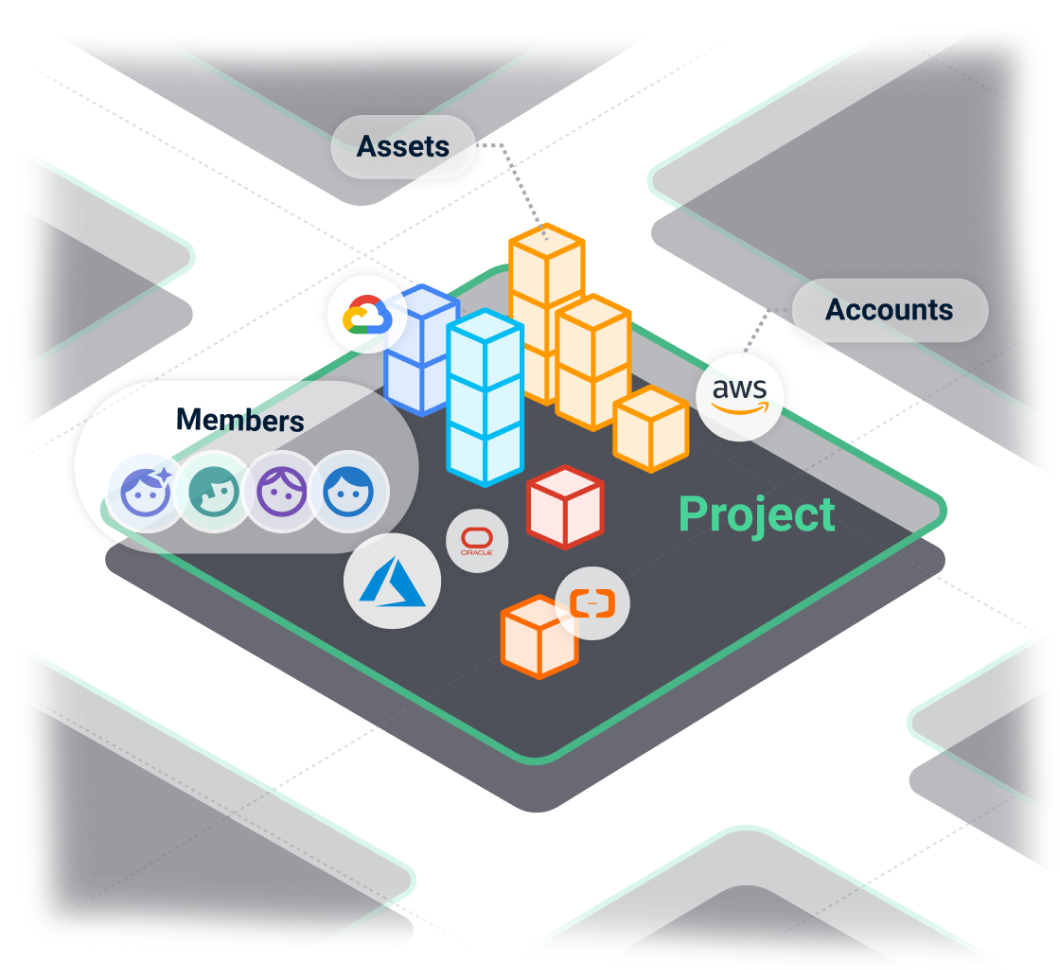
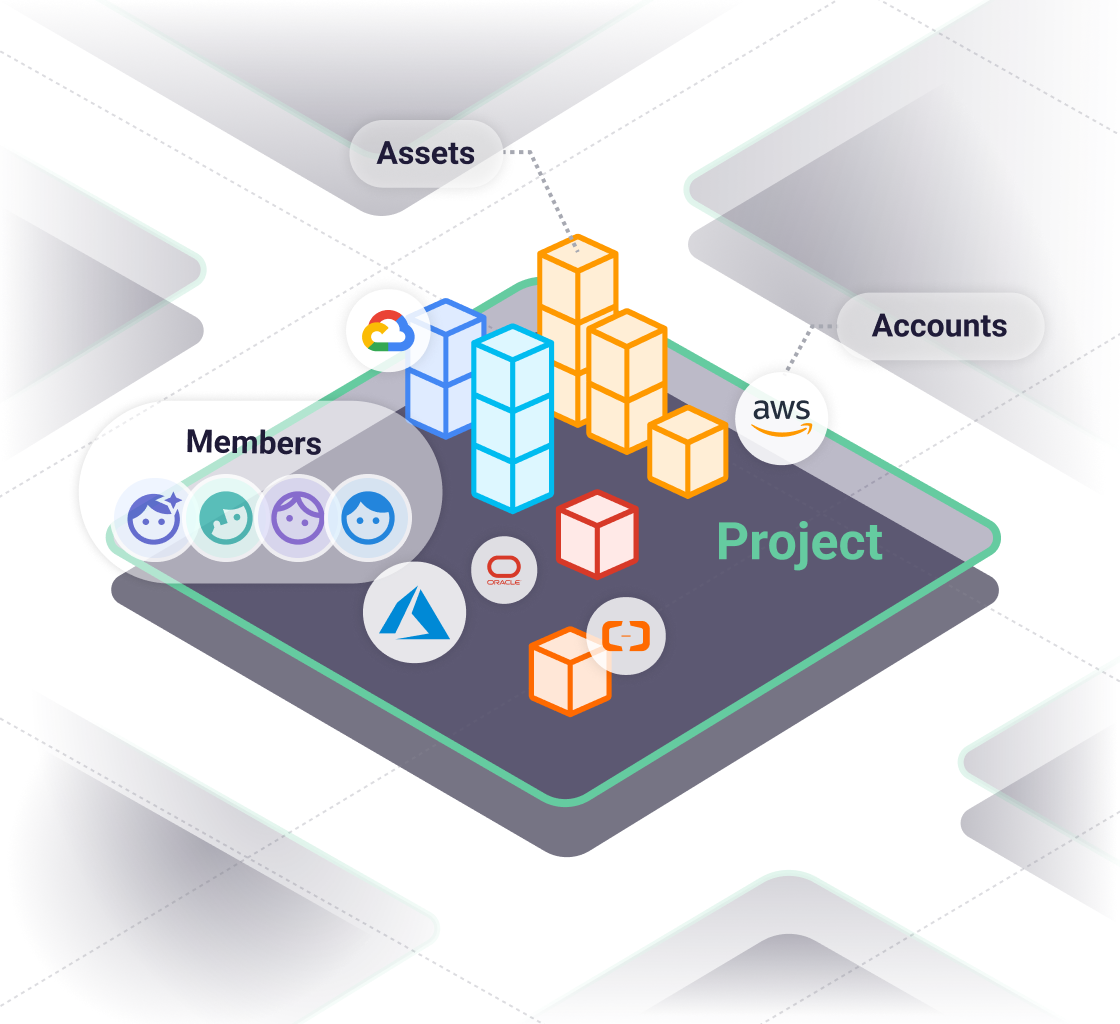
feat: change images on main page

diff --git a/assets/scss/_index.scss b/assets/scss/_index.scss
@@ -61,7 +61,7 @@ $gray400: #5F616D;
     z-index: -1;
     width: 100%;
     height: 100%;
-    background: linear-gradient(90deg, #65cba0 0%, #cf88a0 52.6%, #5ca2b1 100%);
+    background: linear-gradient(90deg, #00E6E5 0%, #C8A6F4 51.04%, #61A2F5 76.3%, #009FF5 100%);
     border-radius: 1.875rem;
   }
   &:hover {
@@ -70,13 +70,13 @@ $gray400: #5F616D;
   }
 }
 .btn-link-green {
-  background: $green100;
+  background: linear-gradient(92.98deg, #00E0D9 3.49%, #009FF5 94.89%);
 }
 .btn-link-gradient {
   top: 0.125rem;
   min-width: calc(9rem - 0.25rem);
   height: calc(2.5rem - 0.25rem);
-  background: $navy500;
+  background: #717dba;
   &:after {
     width: calc(100% + 0.25rem);
     height: calc(100% + 0.25rem);
@@ -96,54 +96,10 @@ $gray400: #5F616D;
   }
 }
 
-// background
-@function multiple-box-shadow($n, $density) {
-  $value: "#{random($density)}vh #{random(100)}vh #fff";
-  @for $i from 2 through $n {
-    $value: "#{$value} , #{random($density)}vh #{random(100)}vh #fff";
-  }
-  @return unquote($value);
-}
-$shadows-small: multiple-box-shadow(700,300);
-$shadows-medium: multiple-box-shadow(200,300);
-$shadows-big: multiple-box-shadow(100,300);
-.background-stars {
-  content:'';
-  overflow: hidden;
-  position: fixed;
-  top: 0;
-  left: 0;
-  z-index: -1;
-  width: 100%;
-  height: 100vh;
-  background: radial-gradient(ellipse at bottom, #1b2735 0%, #090a0f 100%);
-}
-.stars {
-  width: 1px;
-  height: 1px;
-  box-shadow: $shadows-small;
-  background-color:transparent;
-}
-.stars2 {
-  width: 2px;
-  height: 2px;
-  box-shadow: $shadows-medium;
-  animation: animStar 1.7s linear 200;
-}
-.stars3 {
-  width: 3px;
-  height: 3px;
-  box-shadow: $shadows-big;
-}
-@keyframes animStar {
-  from {opacity:1;}
-  50% {opacity:.3;}
-  to {opacity:1;}
-}
-
 // section
 .td-home {
-  background-color: #090a0f;
+  //background-color: #090a0f;
+  background-color: #1F1B38;
   word-break: keep-all;
 
   .td-outer {
@@ -158,7 +114,7 @@ $shadows-big: multiple-box-shadow(100,300);
     overflow: hidden;
     height: 100vh;
     &.bg-blue {
-      background-color: rgba(0, 27, 51, 0.5);
+      background-color: rgba(220, 218, 233, 0.16);
     }
     .inner {
       position: relative;
@@ -192,16 +148,15 @@ $shadows-big: multiple-box-shadow(100,300);
   .section-main {
     height: 100vh;
     position: relative;
-    background-repeat: no-repeat;
-    background-position: 0 100%;
-    background-size: 100vw 100vh;
-    background-image: url("/images/home/bg_section_main.png");
+    background: url("/images/home/bg_universe.png") no-repeat 50% 0;
+    background-size: 100% auto;
+
     h2 {
       font-size: 4rem;
       font-weight: 500;
       line-height: 1;
       em {
-        background: linear-gradient(to right, #65cba0, #cf88a0, #5ca2b1);
+        background: linear-gradient(90deg, #00E6E5 0%, #C8A6F4 51.04%, #61A2F5 76.3%, #009FF5 100%);
         background-clip: text;
         -webkit-background-clip: text;
         -webkit-text-fill-color: transparent;
@@ -235,6 +190,7 @@ $shadows-big: multiple-box-shadow(100,300);
   }
 
   .section-feature {
+
     .feature {
       display: grid;
       grid-template-columns: repeat(12, 1fr);
@@ -266,6 +222,14 @@ $shadows-big: multiple-box-shadow(100,300);
         border-radius: 0.5rem;
       }
     }
+  }
+
+  .feature-management {
+    background-image: url("/images/home/bg_universe.png");
+    background-repeat: no-repeat;
+    background-size: 100% auto;
+    background-position-x: 50%;
+    background-position-y: -100vh;
   }
 
   .feature-notification {
@@ -353,7 +317,7 @@ $shadows-big: multiple-box-shadow(100,300);
         z-index: -1;
         width: 100%;
         height: 100%;
-        background: #001b33;
+        background: rgba(220, 218, 233, 0.16);
         opacity: 0.3;
         box-shadow: 0 0.25rem 0.9375rem rgba(0, 92, 179, 0.3);
         border-radius: 0.5rem;
@@ -452,7 +416,8 @@ $shadows-big: multiple-box-shadow(100,300);
           width: 100vw;
           height: 100%;
           max-height:  46.1875rem;
-          background-color: rgba(0, 27, 51, 0.5);
+          background-color: rgba(220, 218, 233, 0.16);
+          border:solid 1px red;
         }
       }
     }
@@ -512,9 +477,6 @@ $shadows-big: multiple-box-shadow(100,300);
 
     .section-main {
       height: 42rem;
-      background-size: 100vw 100%;
-      background-position: 0 0;
-      background-image: url("/images/home/bg_section_main_m.png");
       .inner {
         padding-top: 8.75rem;
       }

diff --git a/layouts/index.html b/layouts/index.html
@@ -16,11 +16,6 @@
                     </div>
                     <div class="swiper-button swiper-button-next"></div>
                 </div>
-                <figure class="background-stars">
-                    <figure class="stars stars1"></figure>
-                    <figure class="stars stars2"></figure>
-                    <figure class="stars stars3"></figure>
-                </figure>
                 <script src="https://unpkg.com/swiper@8/swiper-bundle.min.js"></script>
             </main>
         </div>
@@ -58,13 +53,6 @@
 
                 // lottie
                 $(function () {
-                    bodymovin.loadAnimation({
-                        container: document.getElementById('spaceman'),
-                        path: '/images/home/lottie_spaceman.json',
-                        renderer: 'svg',
-                        loop: true,
-                        autoplay: true,
-                    });
                     bodymovin.loadAnimation({
                         container: document.getElementById('cloud'),
                         path: '/images/home/lottie_cloud.json',

diff --git a/content/ko/_index.html b/content/ko/_index.html
@@ -8,7 +8,6 @@ title: Home
     <a href="https://www.spaceone.org/docs/setup_operation/install_guide/" class="btn-link btn-link-green" target="_blank"><span>설치하기</span></a>
     <a href="https://github.com/spaceone-dev" class="btn-link btn-link-gradient link-github" target="_blank">GitHub</a>
 </div>
-<figure class="img-spaceman" id="spaceman"></figure>
 {{% /blocks/section %}}
 
 {{% blocks/feature name="management" section_title="our approach" thumbnail="/images/home/img_discover_manage_clouds.gif" title="<span>멀티 클라우드</span> 자원 통합 관리" description="흩어져있는 여러 클라우드 자원들을 하나의 플랫폼에서 관리하세요. 통합 대시보드로 간편하게 자원들을 모아 볼 수 있습니다. " %}}{{% /blocks/feature %}}

diff --git a/content/en/_index.html b/content/en/_index.html
@@ -8,7 +8,6 @@ title: Home
     <a href="https://www.spaceone.org/docs/setup_operation/install_guide/" class="btn-link btn-link-green" target="_blank"><span>Get Started</span></a>
     <a href="https://github.com/spaceone-dev" class="btn-link btn-link-gradient link-github" target="_blank">GitHub</a>
 </div>
-<figure class="img-spaceman" id="spaceman"></figure>
 {{% /blocks/section %}}
 
 {{% blocks/feature name="management" section_title="our approach" thumbnail="/images/home/img_discover_manage_clouds.gif" title="<span>Discover and Manage </span>Multi-Cloud Resources" description="Collect and categorize multi-cloud assets in ONE platform. Search cloud resources quickly and analyze them with detailed information in ONE dashboard." %}}{{% /blocks/feature %}}

diff --git a/layouts/partials/navbar.html b/layouts/partials/navbar.html
@@ -1,7 +1,6 @@
 <nav class="navbar td-navbar">
     <a class="navbar-brand" href="{{ .Site.Home.RelPermalink }}">
-        <img src="/images/logo.svg" alt="" class="logo">
-        <img src="/images/logo_text.svg" alt="SpaceONE" class="logo-text">
+        {{ if .Site.Params.ui.navbar_logo }}{{ with resources.Get "icons/logo.svg" }}{{ ( . | minify).Content | safeHTML }}{{ end }}{{ end }}
     </a>
     <button class="btn btn-menu fas fa-bars" id="btn-menu"> Menu</button>
     <div class="nav-list-wrap">

diff --git a/assets/scss/_navbar.scss b/assets/scss/_navbar.scss
@@ -1,7 +1,8 @@
 .td-navbar {
   min-height: $navbar-height;
   padding: 0 1.875rem;
-  background-color: #001B33;
+  //background-color: #001B33;
+  background-color:transparent;
   font-family: $td-fonts-serif;
   color: $white;
   flex-wrap: nowrap;
@@ -55,7 +56,7 @@
     align-items: center;
     height: $navbar-height;
     padding: 0;
-    font-size: 1.125rem;
+    font-size: 1rem;
     color: $white;
     font-weight: 500;
     transition: color .2s;

diff --git a/assets/scss/_search.scss b/assets/scss/_search.scss
@@ -8,7 +8,7 @@
 .td-search-input {
   max-width: 100%;
   height: 2rem;
-  background-color: $white;
+  background-color: rgba(255,255,255,0.3);
   border: solid 0.0625rem $white;
   border-radius: 0.125rem;
   font-size: 1rem;
